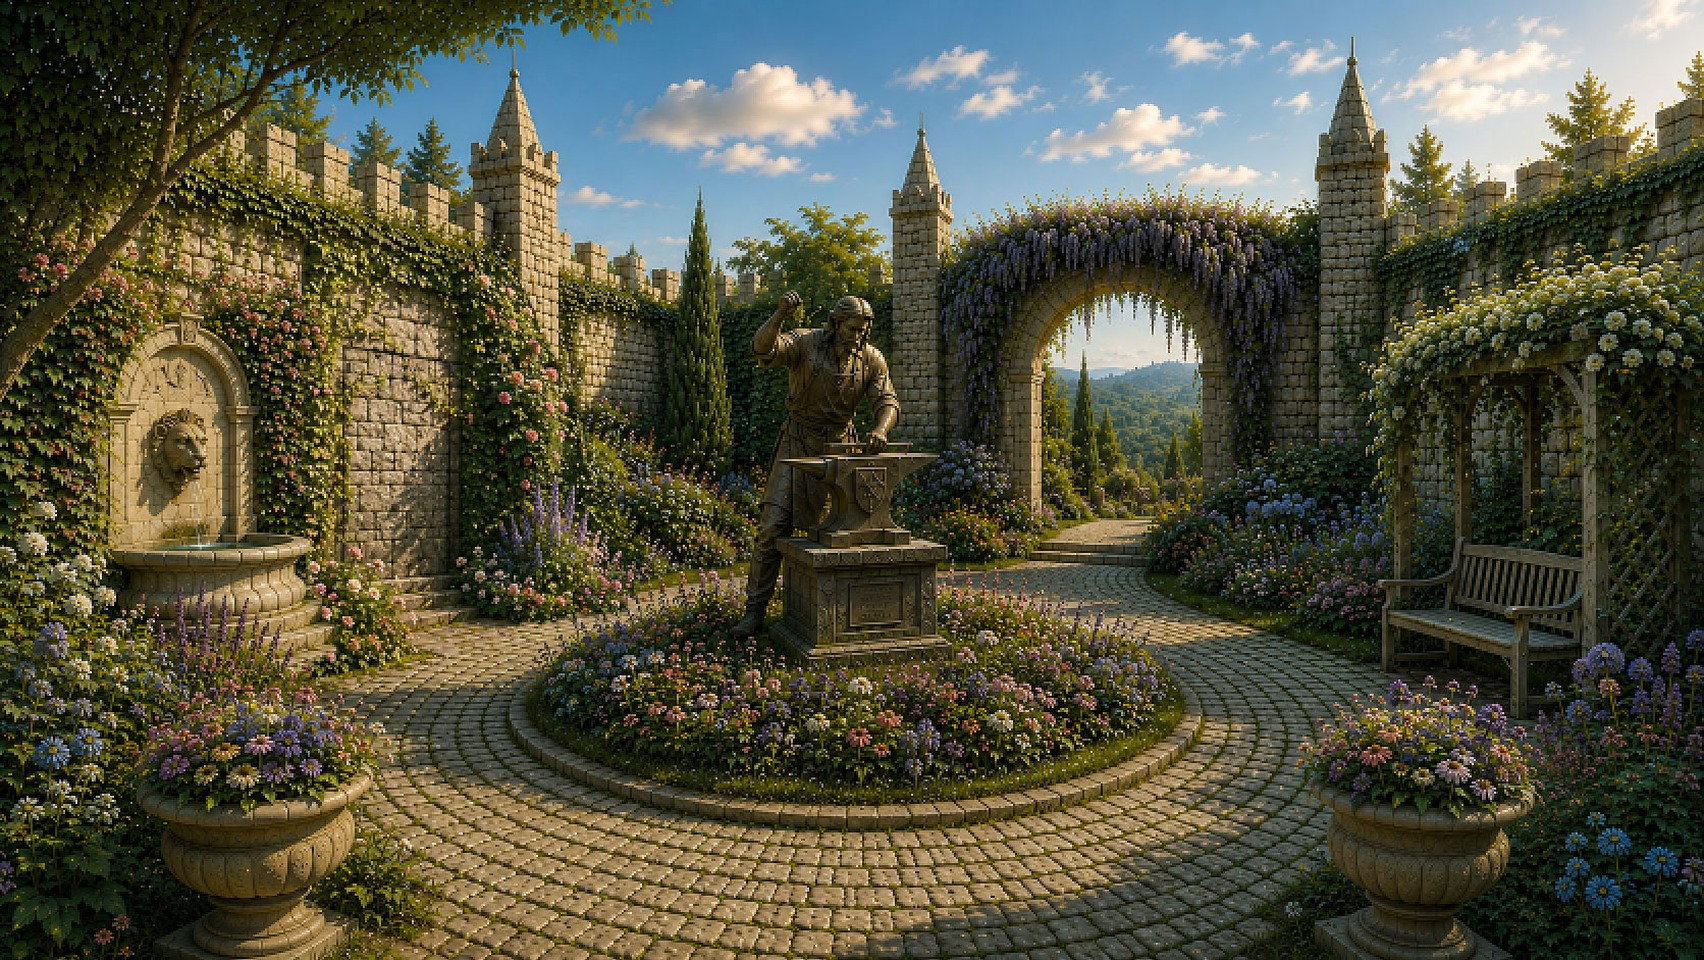
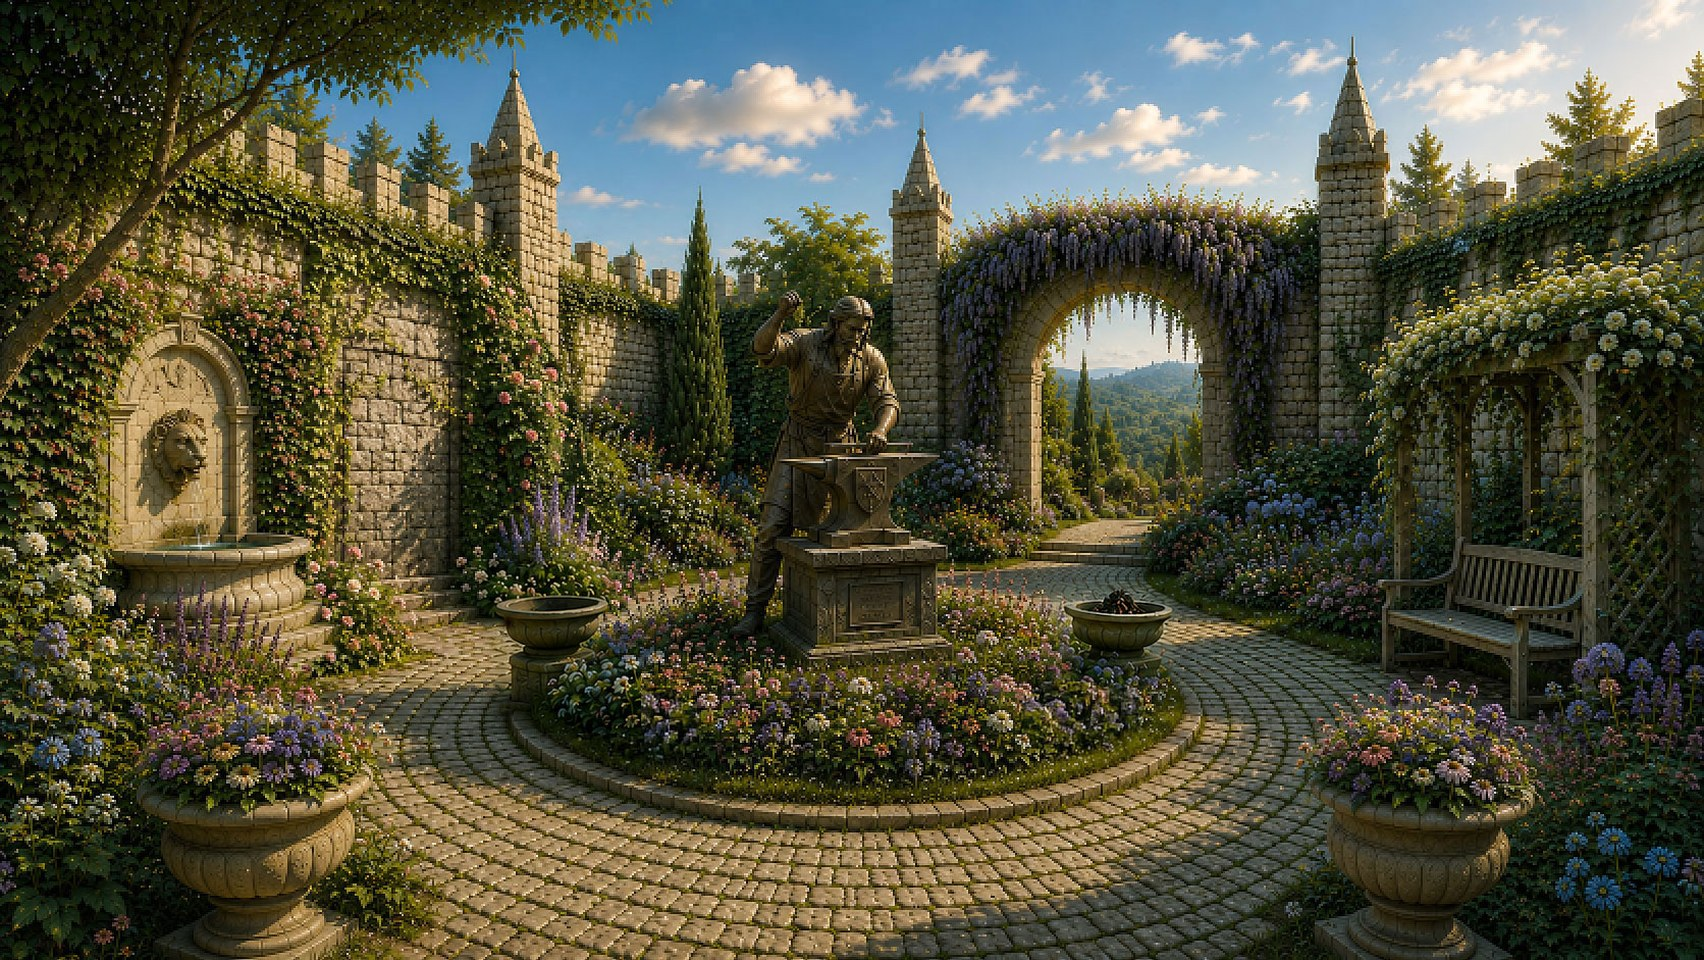
Deel 2: nieuwe tuin-achtergronden (4 juli) met ingebakken vuurkorven; slot kleiner + 8px links
- tuin1/2/3 (4-juli-versies) verwerkt naar scene-garden(.jpg/-hammer/-open): de
  vuurkorven zitten nu in de plaat zelf, dus de losse brazier-overlays zijn verwijderd
- Sleutelgat-overlay in de tuin: kleiner (scale 0.56 -> 0.48) en 8px naar links (x 134 -> 126)
- Cache deel2 v148

Changed region(s): [[0.2799, 0.5625, 0.4043, 0.7812], [0.591, 0.5938, 0.6843, 0.8125]]

diff --git a/games/ravenholt-deel2/index.html b/games/ravenholt-deel2/index.html
@@ -26,7 +26,7 @@
   <link rel="preconnect" href="https://fonts.googleapis.com">
   <link rel="preconnect" href="https://fonts.gstatic.com" crossorigin>
   <link href="https://fonts.googleapis.com/css2?family=Crimson+Pro:ital,wght@0,400;0,600;1,400&family=Pixelify+Sans:wght@400;600&display=swap" rel="stylesheet">
-  <link rel="stylesheet" href="css/style.css?v=147">
+  <link rel="stylesheet" href="css/style.css?v=148">
   <script type="application/ld+json">
   {
     "@context": "https://schema.org",
@@ -125,7 +125,7 @@
   </div>
 
   <div id="title-screen" class="overlay title">
-    <img class="title-bg" src="assets/art/title.jpg?v=147" alt="Whispers of Ravenholt" onerror="this.remove()">
+    <img class="title-bg" src="assets/art/title.jpg?v=148" alt="Whispers of Ravenholt" onerror="this.remove()">
     <div class="title-content">
       <h1 id="title-h1" hidden><span>Whispers of</span><br><span>Ravenholt</span></h1>
       <p id="title-sub" class="subtitle" hidden>Een point-and-click avontuur</p>
@@ -146,7 +146,7 @@
 
   <div id="win-screen" class="overlay" hidden>
     <div class="overlay-card panel">
-      <img class="win-banner" src="assets/art/win-deel2.jpg?v=147" alt="" onerror="this.remove()">
+      <img class="win-banner" src="assets/art/win-deel2.jpg?v=148" alt="" onerror="this.remove()">
       <h1 id="win-h1">Deel 1 uitgespeeld!</h1>
       <p class="intro" id="winText"></p>
       <button id="replayBtn" class="gold-btn">Opnieuw spelen</button>
@@ -296,10 +296,10 @@
     </div>
   </div>
 
-  <script src="js/sprites.js?v=147"></script>
-  <script src="js/scenes.js?v=147"></script>
-  <script src="js/data.js?v=147"></script>
-  <script src="js/engine.js?v=147"></script>
+  <script src="js/sprites.js?v=148"></script>
+  <script src="js/scenes.js?v=148"></script>
+  <script src="js/data.js?v=148"></script>
+  <script src="js/engine.js?v=148"></script>
   <script>
     if ('serviceWorker' in navigator) {
       window.addEventListener('load', () => {

diff --git a/games/ravenholt-deel2/js/data.js b/games/ravenholt-deel2/js/data.js
@@ -14,7 +14,7 @@ const GAME = {
   title:      { nl: 'Fluisteringen van Ravenholt — Deel 2', en: 'Whispers of Ravenholt — Part 2' },
   titleLines: { nl: ['Fluisteringen', 'van Ravenholt', '· Deel 2 ·'], en: ['Whispers of', 'Ravenholt', '· Part 2 ·'] },
   startScene: 'courtyard',
-  assetVer: '147',
+  assetVer: '148',
 
   /* Finn — vaste figuur: roodharige jongen, blauwe kapmantel, leren tas, houten staf.
      idle = hero, lopen = 4-frame loopsheet (heroWalkSheet), zwaaien = heroWave.
@@ -541,9 +541,8 @@ const GAME = {
         { x: 340, y: 236, w: 38, h: 18 }                   // rechter vuurkorf
       ],
       overlays: [
-        { img: 'assets/art/keyhole.png', x: 134, y: 158, base: 240, scale: 0.56, appearFlag: 'fountainSolved', hideFlag: 'secretGateOpen' },  // sleutelgat in de muur rechts van de fontein — iets hoger + kleiner
-        { img: 'assets/art/brazier-empty.png', x: 194, y: 216, base: 250, shadow: { a: 0.3, w: 15, h: 3.5 } },   // LEGE vuurkorf links van het smidsbeeld
-        { img: 'assets/art/brazier.png', x: 342, y: 216, base: 250, shadow: { a: 0.3, w: 15, h: 3.5 } }    // vuurkorf rechts van het smidsbeeld — hierin ligt de houtskool
+        { img: 'assets/art/keyhole.png', x: 126, y: 158, base: 240, scale: 0.48, appearFlag: 'fountainSolved', hideFlag: 'secretGateOpen' }   // sleutelgat in de muur rechts van de fontein — kleiner + iets naar links
+        // de vuurkorven zitten nu in de achtergrond-afbeeldingen zelf (tuin1/2/3)
       ],
       worldItems: [
         { item: 'charcoal', hotspot: 'charcoal', x: 359, y: 223, scale: 0.72, glowCol: '255,150,60', embers: 0.9 },   // houtskool IN de rechter vuurkorf — duidelijker nagloeiende sintels zodat je 'm kunt pakken

diff --git a/games/ravenholt-deel2/sw.js b/games/ravenholt-deel2/sw.js
@@ -4,7 +4,7 @@
    offline beschikbaar wilt hebben (optioneel — niet-vermelde bestanden worden bij
    eerste gebruik alsnog gecachet). */
 
-const CACHE = 'ravenholt2-v147';
+const CACHE = 'ravenholt2-v148';
 
 const PRECACHE = [
   './',
